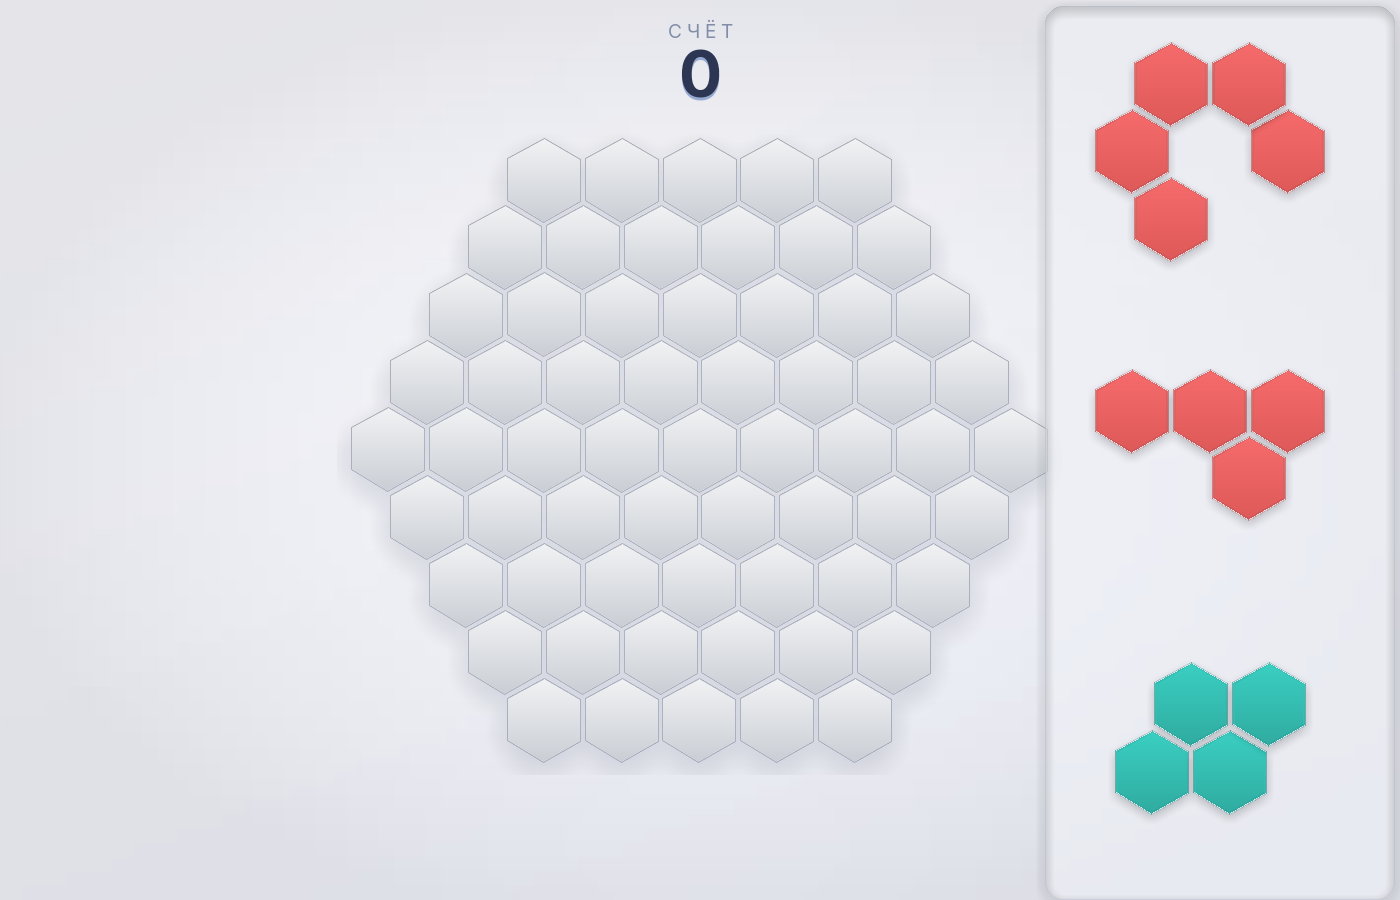
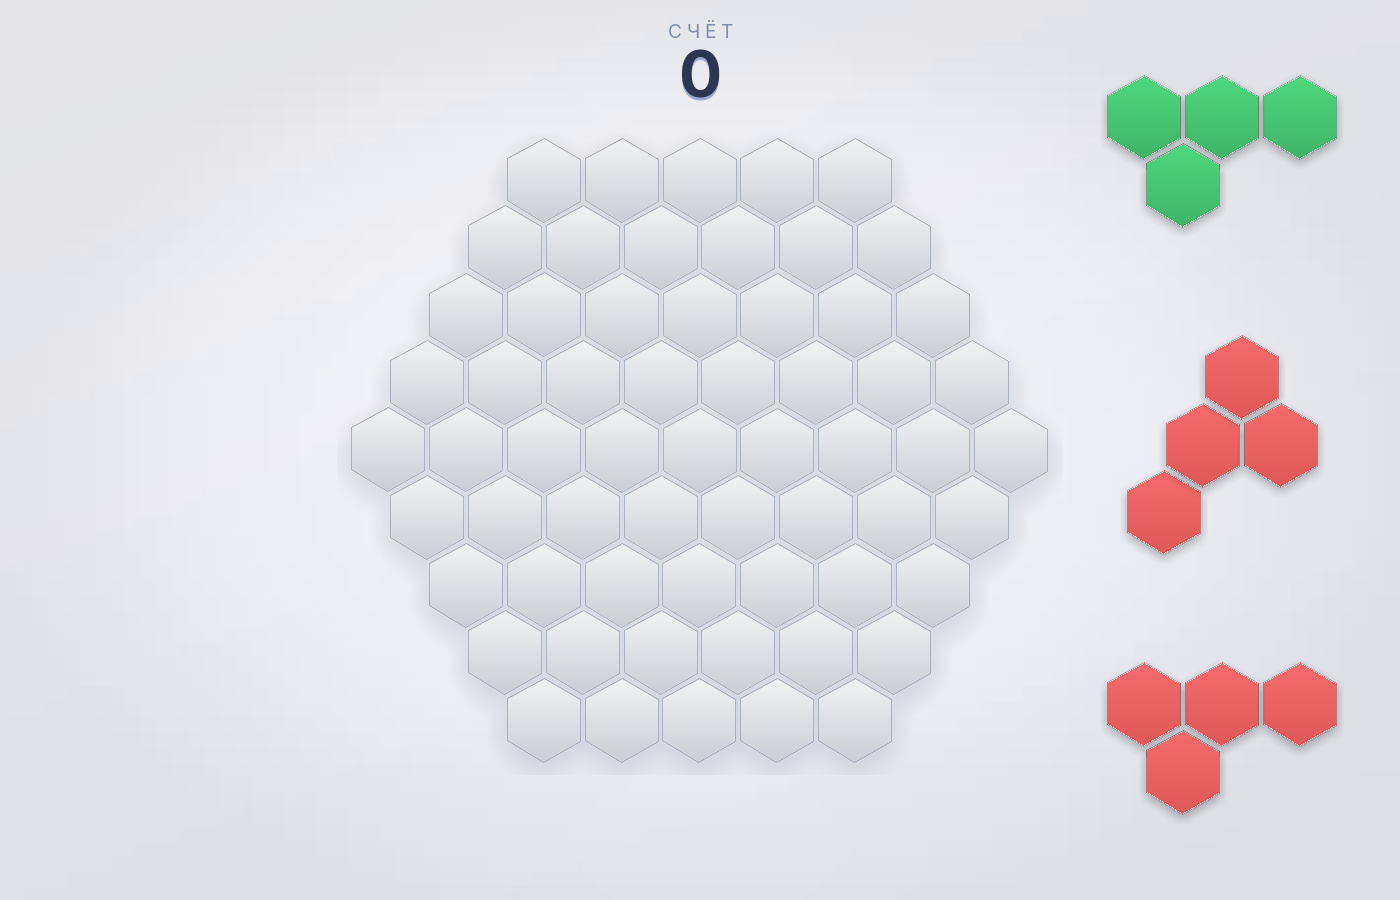
Убраны вырезы внутри фигуры при перетаскивании
При взятии фигура уменьшалась до 0.8, и внутри неё появлялись светлые
линии. Причин было две.

1. Масштабировались только радиусы гексов, а расстояния между их центрами
   оставались прежними. Ширина гекса при 0.8 равна 58 px, а шаг центров
   по-прежнему 78 px — между гексами возникал зазор ~20 px, который читался
   как «вырез».
   Теперь фигура хранит render_scale: позиции гексов стягиваются к центру
   фигуры только при отрисовке, а логические координаты остаются на сетке.
   Это важно: иначе фигура перестала бы совпадать с ячейками поля при
   размещении. bbox, collide и draw учитывают render_scale.

2. Внутренняя светлая кромка рисовалась отдельным контуром по уменьшенному
   многоугольнику и на малом масштабе выглядела как линия внутри гекса.
   Кромка убрана — объём создаёт градиент.

Заодно исправлено: _gradient_body не принимал scale и всегда обрезал
градиент по полному радиусу, из-за чего на уменьшенных гексах оставался
второй контур по краю.

Фигура больше не хранит width/height полями: они стали свойствами, иначе
после масштабирования оставались устаревшими.

Проверки: игра запускается; 12 партий с фиксированным seed проходят,
146 фигур поставлено; 128 кадров анимаций сверены с полной перерисовкой —
следов нет. Скриншоты в README обновлены.

Changed region(s): [[0.7371, 0.0, 1.0, 0.3111], [0.7679, 0.3733, 0.9521, 0.6222], [0.7679, 0.7156, 0.9829, 0.9333]]

diff --git a/classes.py b/classes.py
@@ -2,7 +2,7 @@ import random
 from copy import deepcopy
 from math import pi, sin, cos
 
-from settings import pg, W, H, LAYERS_COUNT, NORMAL, RADIUS, D_PARAMS, FIGURES_DATA, BACKGROUND_STEP
+from settings import pg, W, H, LAYERS_COUNT, NORMAL, RADIUS, HEX_MARGIN, D_PARAMS, FIGURES_DATA, BACKGROUND_STEP
 from theme import theme
 from fonts import fonts
 from sprites import cache, shade
@@ -358,8 +358,16 @@ class Figure:
         self.hexagon_list = hexagon_list
         self.data_for_create = data_for_create
         self.color_index = 0
-        self.width = self.max_x - self.min_x
-        self.height = self.max_y - self.min_y
+        self.render_scale = 1.0
+        self.process_list = []
+
+    @property
+    def width(self):
+        return self.max_x - self.min_x
+
+    @property
+    def height(self):
+        return self.max_y - self.min_y
 
     @property
     def min_x(self):
@@ -379,9 +387,19 @@ class Figure:
 
     @property
     def bbox(self):
-        rect = self.hexagon_list[0].bbox
-        for hexagon in self.hexagon_list[1:]:
-            rect = rect.union(hexagon.bbox)
+        """Габариты фигуры с учётом визуального масштаба."""
+        if self.render_scale == 1.0:
+            rect = self.hexagon_list[0].bbox
+            for hexagon in self.hexagon_list[1:]:
+                rect = rect.union(hexagon.bbox)
+            return rect
+
+        radius = int((RADIUS + 18) * self.render_scale) + 4
+        rect = None
+        for hexagon in self.hexagon_list:
+            hx, hy = self._scaled_center(hexagon)
+            item = pg.Rect(int(hx) - radius, int(hy) - radius, radius * 2, radius * 2)
+            rect = item if rect is None else rect.union(item)
         return rect
 
     @property
@@ -395,14 +413,38 @@ class Figure:
             hexagon.color_index = index
 
     def collide(self, x, y):
-        return any(hexagon.collide(x, y) for hexagon in self.hexagon_list)
+        if self.render_scale == 1.0:
+            return any(hexagon.collide(x, y) for hexagon in self.hexagon_list)
+        # При уменьшенной фигуре попадание считается по экранным позициям.
+        cx, cy = self.center
+        for hexagon in self.hexagon_list:
+            hx, hy = self._scaled_center(hexagon)
+            radius = (RADIUS - HEX_MARGIN) * self.render_scale
+            if (x - hx) ** 2 + (y - hy) ** 2 <= radius * radius:
+                return True
+        return False
 
     def draw(self, surface, rect=None):
         for hexagon in self.hexagon_list:
-            hexagon.draw(surface, rect)
+            if self.render_scale == 1.0:
+                hexagon.draw(surface, rect)
+                continue
+            hx, hy = self._scaled_center(hexagon)
+            sprite = cache.hex_sprite('figure', self.color_index, self.render_scale, theme)
+            offset = (int(hx - sprite.get_width() / 2), int(hy - sprite.get_height() / 2))
+            area = pg.Rect(offset, sprite.get_size())
+            if rect is not None and not rect.colliderect(area):
+                continue
+            surface.blit(sprite, offset)
 
     def update(self):
         changed = None
+        for process in list(self.process_list):
+            rect = self.bbox
+            if process():
+                self.process_list.remove(process)
+            changed = rect.union(self.bbox) if changed is None else changed.union(rect).union(self.bbox)
+
         for hexagon in self.hexagon_list:
             rect = hexagon.update()
             if rect is not None:
@@ -417,23 +459,50 @@ class Figure:
             changed = rect if changed is None else changed.union(rect)
         return changed
 
+    @property
+    def center(self):
+        """Геометрический центр фигуры."""
+        return ((self.min_x + self.max_x) / 2, (self.min_y + self.max_y) / 2)
+
+    def _scaled_center(self, hexagon):
+        """Центр гекса в экранных координатах с учётом визуального масштаба.
+
+        Логические координаты гексов не меняются: они должны оставаться на
+        сетке, иначе фигура перестанет совпадать с ячейками поля. Поэтому
+        при уменьшении фигуры её гексы стягиваются к центру только на экране.
+        """
+        cx, cy = self.center
+        s = self.render_scale
+        return cx + (hexagon.x0 - cx) * s, cy + (hexagon.y0 - cy) * s
+
     def scale(self, factor):
-        changed = None
-        for hexagon in self.hexagon_list:
-            rect = hexagon.scale(factor)
-            changed = rect if changed is None else changed.union(rect)
-        return changed
+        """Задаёт визуальный масштаб всей фигуры."""
+        changed = self.bbox
+        self.render_scale = factor
+        return changed.union(self.bbox)
 
     def start_scale_process(self, target_scale, step_scale):
-        for hexagon in self.hexagon_list:
-            hexagon.start_scale_process(target_scale, step_scale)
+        """Плавно меняет визуальный масштаб всей фигуры."""
+
+        def process():
+            current = self.render_scale
+            if current < target_scale:
+                next_scale = min(target_scale, current + step_scale)
+            elif current > target_scale:
+                next_scale = max(target_scale, current - step_scale)
+            else:
+                return True
+            self.scale(next_scale)
+            return next_scale == target_scale
+
+        self.process_list.append(process)
 
     def start_offset_process(self, dx, dy):
         for hexagon in self.hexagon_list:
             hexagon.start_offset_process(dx, dy)
 
     def has_process(self):
-        return any(hexagon.has_process() for hexagon in self.hexagon_list)
+        return bool(self.process_list) or any(hexagon.has_process() for hexagon in self.hexagon_list)
 
     def __len__(self):
         return len(self.hexagon_list)

diff --git a/sprites.py b/sprites.py
@@ -32,7 +32,7 @@ def _int_points(cx, cy, scale=1.0):
     return [(int(x), int(y)) for x, y in _hex_points(cx, cy, scale)]
 
 
-def _gradient_body(size, fill):
+def _gradient_body(size, fill, scale=1.0):
     """Вертикальный градиент, обрезанный по форме гекса."""
     body = pg.Surface((size, size), pg.SRCALPHA)
     top, bottom = shade(fill, 1.16), shade(fill, 0.84)
@@ -46,7 +46,7 @@ def _gradient_body(size, fill):
         pg.draw.line(body, color, (0, y), (size, y))
 
     mask = pg.Surface((size, size), pg.SRCALPHA)
-    gfxdraw.filled_polygon(mask, _int_points(size / 2, size / 2), (255, 255, 255, 255))
+    gfxdraw.filled_polygon(mask, _int_points(size / 2, size / 2, scale), (255, 255, 255, 255))
     body.blit(mask, (0, 0), special_flags=pg.BLEND_RGBA_MIN)
     return body
 
@@ -79,13 +79,11 @@ def make_hex_sprite(fill, border, scale=1.0, pad=26, shadow_alpha=0, glow=None,
         halo.set_alpha(150)
         layer.blit(halo, (0, 0))
 
-    layer.blit(_gradient_body(size, fill), (0, 0))
+    layer.blit(_gradient_body(size, fill, scale), (0, 0))
 
-    if inner_light:
-        inner = pg.Surface((size, size), pg.SRCALPHA)
-        gfxdraw.aapolygon(inner, _int_points(cx, cy, scale * 0.955), (*shade(fill, 1.42), 190))
-        layer.blit(inner, (0, 0))
-
+    # Раньше здесь рисовалась светлая кромка по внутреннему контуру, но при
+    # уменьшении масштаба (взятие фигуры) она превращалась в заметную линию
+    # внутри гекса. Объём создаёт сам градиент, поэтому кромка убрана.
     gfxdraw.aapolygon(layer, points, (*border, 210))
     return _trim(layer)
 
